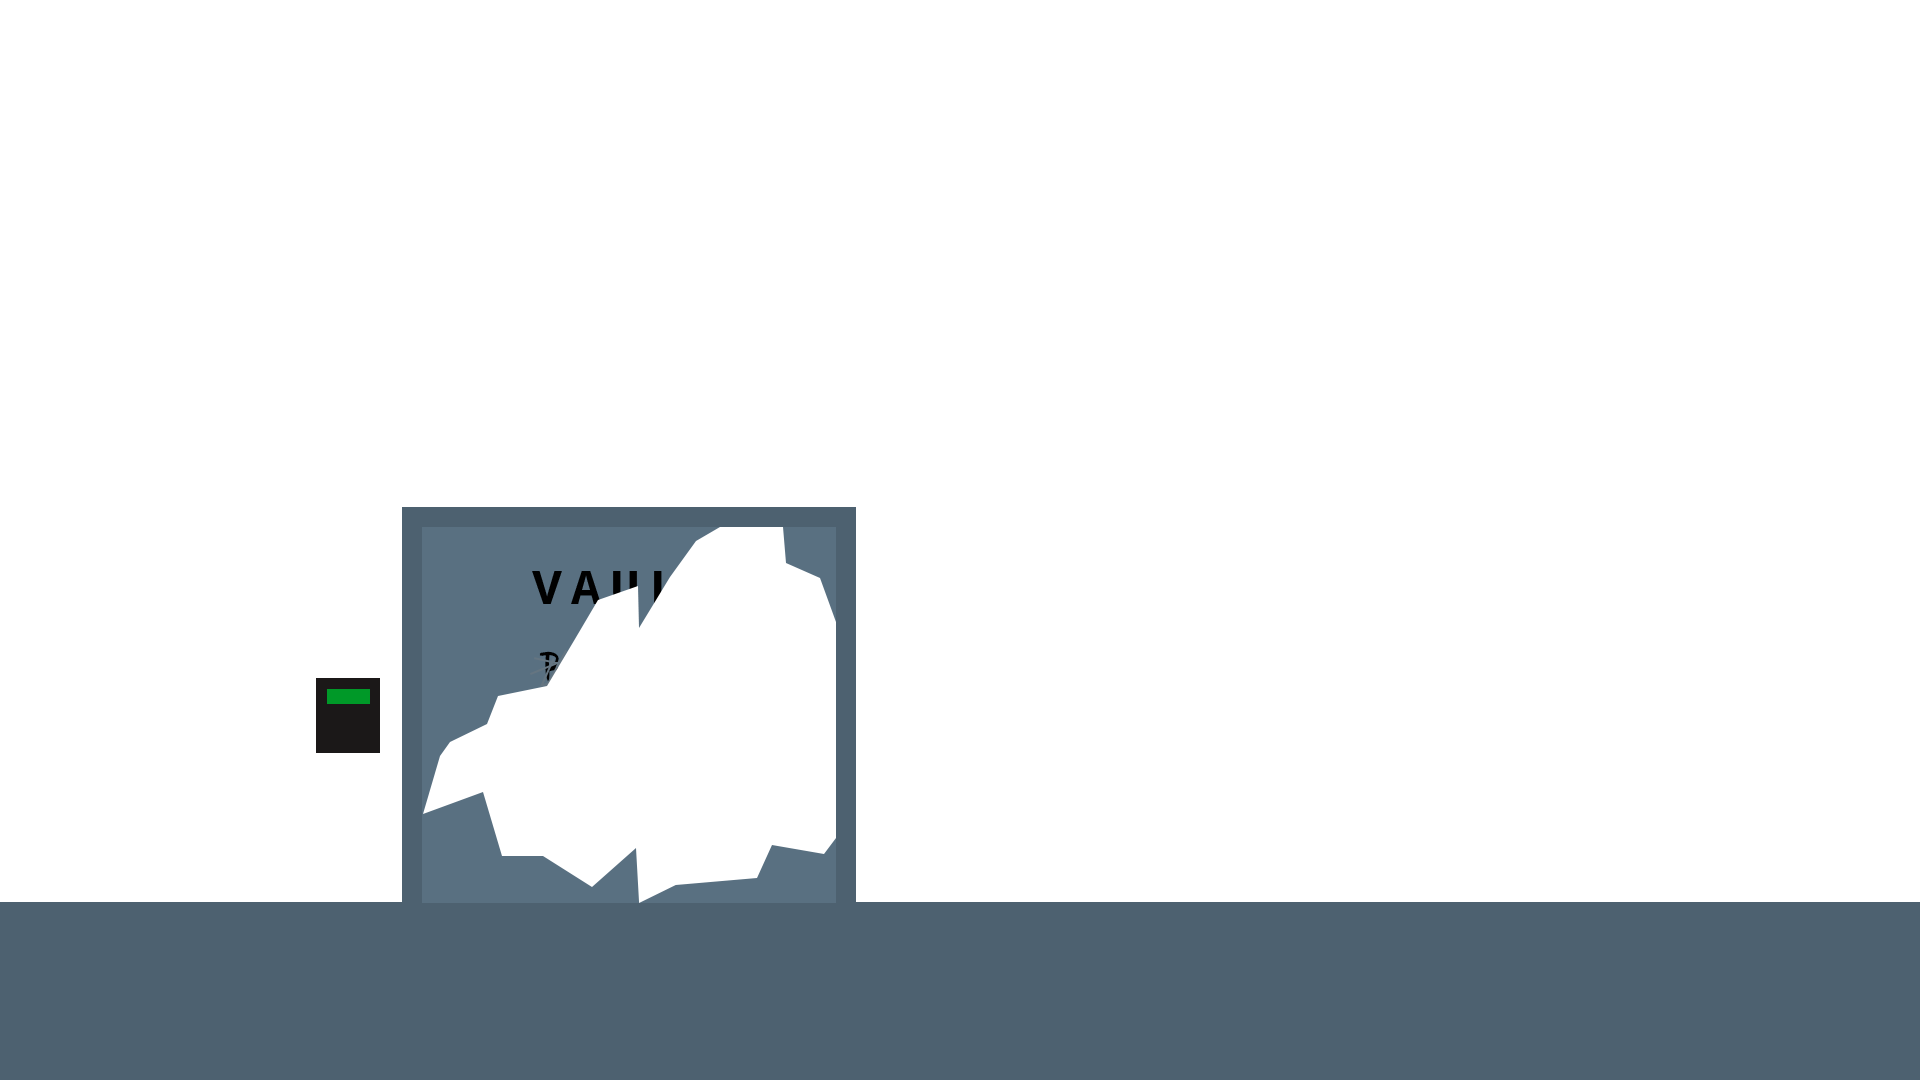
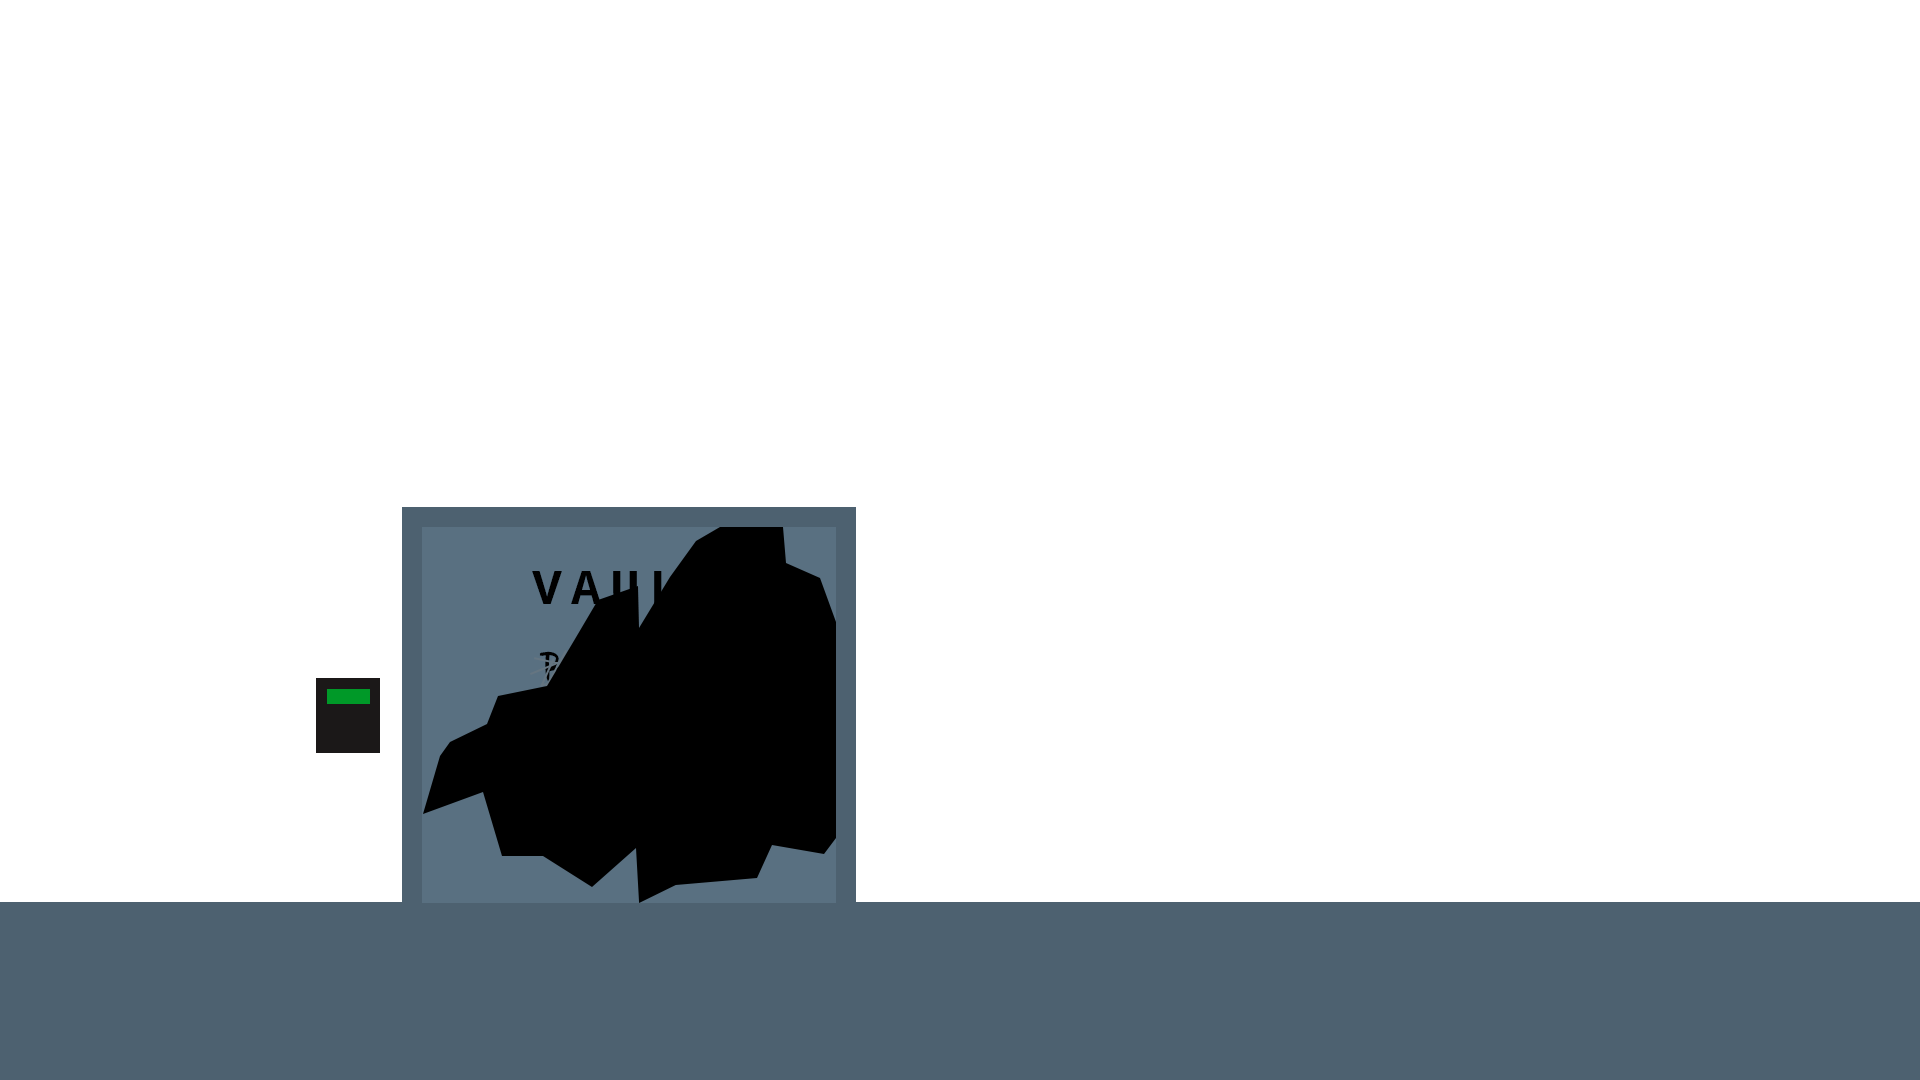
ajout explosion ch1

Changed region(s): [[0.2188, 0.4889, 0.4375, 0.825]]

diff --git a/script/script.js b/script/script.js
@@ -186,6 +186,7 @@ gsap.timeline({scrollTrigger: {
     .to(".tire-robot", { duration: 0, opacity: 0, ease: "none", })
 
     .to(".setting-ch1-debut", { duration: 0, opacity: 0, ease: "none", })
+    .to(".explosion-ch1", { duration: 0, opacity: 1, ease: "none", })
     .to(".setting-ch1-fin", { duration: 0, opacity: 1, ease: "none", })
 
 
@@ -195,6 +196,8 @@ gsap.timeline({scrollTrigger: {
     .to(".ss-j-ch1", { duration: 0.2, x: "100%", y: "50%", ease: "none", delay: -0.1 })
 
 
+    .to(".explosion-ch1", { duration: 0.1, scale: 1, ease: "none", delay: -0.1 })
+    .to(".explosion-ch1", { duration: 0, opacity: 0, ease: "none", })
     .to(".ss-j-ch1", { duration: 0, scaleX: -1, animationIterationCount: "1", animationDuration: 0 , backgroundPosition: "-900% 0%", ease: "none" })
     //.to(".jeremiah-course", { duration: 0, opacity: 0, ease: "none", })
     //.to(".jeremiah-idle", { duration: 0, scaleX: -1, opacity: 1, ease: "none", })

diff --git a/css/style.css b/css/style.css
@@ -704,6 +704,19 @@ section {
     opacity: 0;
 }
 
+.explosion-ch1{
+    position: absolute;
+    height: 50%;
+    aspect-ratio: 1/1;
+    bottom: 8%;
+    left: 22%;
+    background-image: url(../img/img_elements_visuels/explosion.png);
+    background-size: cover;
+    z-index: 2;
+    opacity: 0;
+    scale: 0;
+}
+
 /*Chapitre 2*/
 
 .ch2 .ch2-img {
